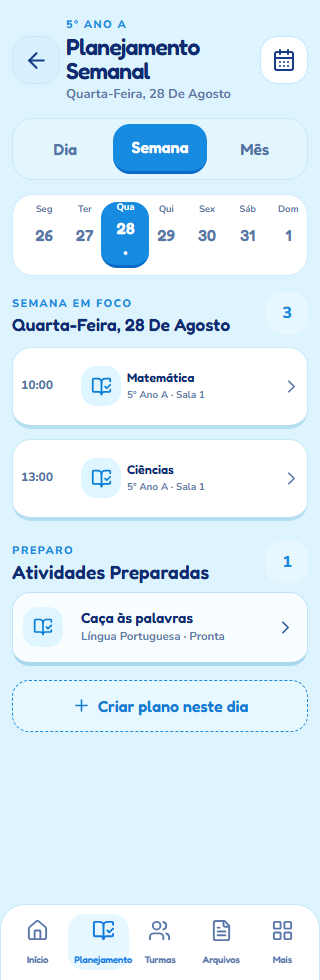
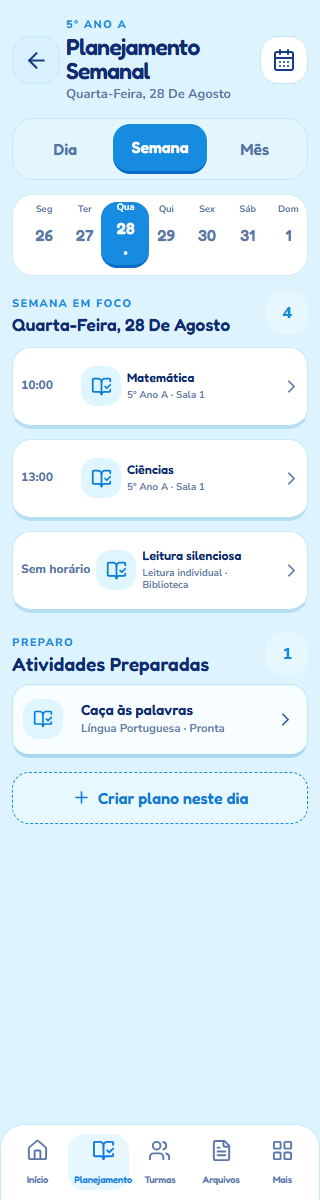
fix: isolate weekly planning hardening

diff --git a/src/v2/screens/PlanningCalendarV2.tsx b/src/v2/screens/PlanningCalendarV2.tsx
@@ -46,16 +46,19 @@ export function PlanningCalendarV2({ className = 'Sua turma', mode, dateKey, pla
   React.useEffect(() => setMonth(new Date(selected.getFullYear(), selected.getMonth(), 1)), [dateKey]);
   const week = React.useMemo(() => { const monday = new Date(selected); monday.setDate(selected.getDate() - ((selected.getDay() + 6) % 7)); return Array.from({ length: 7 }, (_, index) => { const date = new Date(monday); date.setDate(monday.getDate() + index); return keyOf(date); }); }, [dateKey]);
   const monthDays = React.useMemo(() => { const first = new Date(month.getFullYear(), month.getMonth(), 1).getDay(); const count = new Date(month.getFullYear(), month.getMonth() + 1, 0).getDate(); return [...Array(first).fill(''), ...Array.from({ length: count }, (_, index) => keyOf(new Date(month.getFullYear(), month.getMonth(), index + 1)))]; }, [month]);
-  const dayPlans = buildPlanningCalendarRows(plans.filter((plan) => plan.dataKey === dateKey && !plan.arquivadoEm));
+  const activePlans = plans.filter((plan) => plan.dataKey === dateKey && !plan.arquivadoEm);
+  const dayPlans = mode === 'week'
+    ? buildPlanningCalendarRows(activePlans)
+    : activePlans.flatMap((plan) => (plan.momentos || []).map((moment) => ({ plan, title: moment.titulo || plan.tituloTema || 'Plano de aula', time: moment.horario || plan.horaInicio, detail: moment.descricao || plan.objetivoGeral })));
   const dayActivities = activities.filter((activity) => activity.dataKey === dateKey && activity.status !== 'arquivada');
   const moveMonth = (amount: number) => setMonth(new Date(month.getFullYear(), month.getMonth() + amount, 1));
-  return <main className="v2-root v2-planning-calendar" aria-labelledby="planning-calendar-v2-title"><div className="v2-screen v2-planning-calendar__screen">
+  return <main className="v2-root v2-planning-calendar" data-mode={mode} aria-labelledby="planning-calendar-v2-title"><div className="v2-screen v2-planning-calendar__screen">
     <header className="v2-planning-calendar__header"><button className="v2-planning-calendar__back v2-pressable" type="button" onClick={onBack} aria-label="Voltar"><ArrowLeft size={25} /></button><div><span className="v2-eyebrow">{className}</span><h1 id="planning-calendar-v2-title">{mode === 'week' ? 'Planejamento semanal' : monthLabel(month)}</h1><p>{mode === 'week' ? labelOf(dateKey) : 'Veja o ritmo do mês e escolha um dia.'}</p></div><button className="v2-planning-calendar__calendar v2-pressable" type="button" onClick={() => onViewChange(mode === 'week' ? 'month' : 'week')} aria-label={mode === 'week' ? 'Abrir visão mensal' : 'Abrir visão semanal'}><CalendarDays size={24} /></button></header>
     {offline && <div className="v2-planning-calendar__notice" role="status">Você está offline. O planejamento local continua disponível.</div>}{error && <div className="v2-planning-calendar__notice is-error" role="alert"><span>{error}</span><button type="button" onClick={onRetry}>Tentar novamente</button></div>}{activityError && <div className="v2-planning-calendar__notice is-error" role="alert"><span>{activityError}</span><button type="button" onClick={onRetry}>Tentar novamente</button></div>}
     <div className="v2-planning-calendar__tabs" role="tablist" aria-label="Visão do planejamento"><button type="button" role="tab" aria-selected="false" onClick={() => onViewChange('day')}>Dia</button><button className={mode === 'week' ? 'is-selected' : ''} type="button" role="tab" aria-selected={mode === 'week'} onClick={() => onViewChange('week')}>Semana</button><button className={mode === 'month' ? 'is-selected' : ''} type="button" role="tab" aria-selected={mode === 'month'} onClick={() => onViewChange('month')}>Mês</button></div>
     {mode === 'week' ? <div className="v2-planning-calendar__week-strip">{week.map((key) => <button className={`v2-planning-calendar__week-day v2-pressable${key === dateKey ? ' is-selected' : ''}`} type="button" key={key} onClick={() => onDateChange(key)} aria-pressed={key === dateKey}><span>{dateOf(key).toLocaleDateString('pt-BR', { weekday: 'short' }).replace('.', '')}</span><strong>{dateOf(key).getDate()}</strong><small>{plans.some((plan) => plan.dataKey === key && !plan.arquivadoEm) || activities.some((activity) => activity.dataKey === key && activity.status !== 'arquivada') ? '•' : ''}</small></button>)}</div> : <div className="v2-planning-calendar__month"><div className="v2-planning-calendar__month-nav"><button className="v2-planning-calendar__date-arrow v2-pressable" type="button" onClick={() => moveMonth(-1)} aria-label="Mês anterior"><ChevronLeft size={22} /></button><strong>{monthLabel(month)}</strong><button className="v2-planning-calendar__date-arrow v2-pressable" type="button" onClick={() => moveMonth(1)} aria-label="Próximo mês"><ChevronRight size={22} /></button></div><div className="v2-planning-calendar__weekdays">{['Dom', 'Seg', 'Ter', 'Qua', 'Qui', 'Sex', 'Sáb'].map((day) => <span key={day}>{day}</span>)}</div><div className="v2-planning-calendar__grid">{monthDays.map((key, index) => key ? <button type="button" className={`v2-planning-calendar__cell v2-pressable${key === dateKey ? ' is-selected' : ''}`} key={key} onClick={() => onDateChange(key)} aria-label={labelOf(key)} aria-pressed={key === dateKey}><strong>{dateOf(key).getDate()}</strong>{(plans.some((plan) => plan.dataKey === key && !plan.arquivadoEm) || activities.some((activity) => activity.dataKey === key && activity.status !== 'arquivada')) && <i />}</button> : <span key={`blank-${index}`} />)}</div></div>}
     <div className="v2-planning-calendar__day-heading"><div><span className="v2-eyebrow">{mode === 'week' ? 'SEMANA EM FOCO' : 'DIA SELECIONADO'}</span><h2>{labelOf(dateKey)}</h2></div><span className="v2-planning-calendar__count">{dayPlans.length + dayActivities.length}</span></div>
-    {loading ? <div className="v2-planning-calendar__state" role="status">Carregando planejamento...</div> : dayPlans.length ? <section className="v2-planning-calendar__plans" aria-label="Planos do dia">{dayPlans.map((item) => <button className="v2-planning-calendar__plan v2-pressable" type="button" key={`${item.plan.id}-${item.title}`} onClick={() => onOpenPlan(item.plan)}><time>{item.time || 'Sem horário'}</time><span className="v2-planning-calendar__plan-icon"><BookOpenCheck size={21} /></span><span><strong>{item.title}</strong><small>{item.detail || item.plan.tituloTema || 'Plano de aula'}</small></span><ChevronRight size={21} /></button>)}</section> : <div className="v2-planning-calendar__state"><CalendarDays size={32} /><strong>Dia livre para planejar</strong><p>Escolha este momento para preparar uma aula com calma.</p></div>}
+    {loading ? <div className="v2-planning-calendar__state" role="status">Carregando planejamento...</div> : dayPlans.length ? <section className="v2-planning-calendar__plans" aria-label="Planos do dia">{dayPlans.map((item) => <button className="v2-planning-calendar__plan v2-pressable" type="button" key={`${item.plan.id}-${item.title}`} onClick={() => onOpenPlan(item.plan)}><time>{mode === 'week' ? (item.time || 'Sem horário') : (item.time || '—')}</time><span className="v2-planning-calendar__plan-icon"><BookOpenCheck size={21} /></span><span><strong>{item.title}</strong><small>{item.detail || item.plan.tituloTema || 'Plano de aula'}</small></span><ChevronRight size={21} /></button>)}</section> : <div className="v2-planning-calendar__state"><CalendarDays size={32} /><strong>Dia livre para planejar</strong><p>Escolha este momento para preparar uma aula com calma.</p></div>}
     {dayActivities.length > 0 && <section className="v2-planning-calendar__activities" aria-labelledby="planning-calendar-activities-title"><div className="v2-planning-calendar__activities-heading"><div><span className="v2-eyebrow">PREPARO</span><h2 id="planning-calendar-activities-title">Atividades preparadas</h2></div><span className="v2-planning-calendar__count">{dayActivities.length}</span></div>{dayActivities.map((activity) => <button className="v2-planning-calendar__activity v2-pressable" type="button" key={activity.id} onClick={() => onOpenActivity(activity)}><span className="v2-planning-calendar__plan-icon"><BookOpenCheck size={20} /></span><span><strong>{activity.titulo}</strong><small>{activity.disciplina || 'Atividade pedagógica'} · {activity.status === 'pronta' ? 'Pronta' : 'Rascunho'}</small></span><ChevronRight size={21} /></button>)}</section>}
     <button className="v2-planning-calendar__add v2-pressable" type="button" onClick={onCreatePlan}><Plus size={19} /> Criar plano neste dia</button>
     <nav className="v2-planning-calendar__bottom-nav" aria-label="Navegação principal">{navItems.map(({ id, label, icon: Icon }) => <button key={id} type="button" className={`v2-planning-calendar__nav-item v2-pressable${id === 'planejamento' ? ' is-selected' : ''}`} aria-current={id === 'planejamento' ? 'page' : undefined} onClick={() => onTabChange(id)}><Icon size={23} /><span>{label}</span></button>)}</nav>

diff --git a/src/v2/preview/V2Preview.tsx b/src/v2/preview/V2Preview.tsx
@@ -109,6 +109,10 @@ const planningPreviewPlans: LessonPlan[] = [
   { id: 'plan-science', turmaId: 'preview', dataKey: '2024-08-28', tituloTema: 'Experimento do ciclo da água', horaInicio: '13:00', horaFim: '13:50', status: 'rascunho', objetivoGeral: 'Observar mudanças de estado.', objetivosEspecificos: [], bncc: { habilidades: [] }, momentos: [{ id: 'moment-science', titulo: 'Ciências', horario: '13:00', duracaoMin: 50, descricao: '5º Ano A · Sala 1', tipo: 'aula' }], recursos: '', avaliacao: '', inclusao: '', observacoes: '', posAula: { comoFoi: null, observacoesPosAula: '' }, criadoEm: '2024-08-01T10:00:00.000Z', atualizadoEm: '2024-08-01T10:00:00.000Z' },
 ];
 planningPreviewPlans.push({ ...planningPreviewPlans[1], id: 'plan-archived', tituloTema: 'Plano arquivado', arquivadoEm: '2024-08-27T10:00:00.000Z' });
+const planningWeekPreviewPlans: LessonPlan[] = [
+  ...planningPreviewPlans,
+  { ...planningPreviewPlans[0], id: 'plan-untimed-week', tituloTema: 'Leitura silenciosa', horaInicio: '', horaFim: '', momentos: [{ ...planningPreviewPlans[0].momentos[0], id: 'moment-untimed-week', titulo: 'Leitura silenciosa', horario: '', descricao: 'Leitura individual · Biblioteca' }] },
+];
 const planningDayPreviewPlans: LessonPlan[] = [
   ...planningPreviewPlans,
   { ...planningPreviewPlans[0], id: 'plan-untimed', tituloTema: 'Leitura silenciosa', horaInicio: '', horaFim: '', momentos: [{ ...planningPreviewPlans[0].momentos[0], id: 'moment-untimed', titulo: 'Leitura silenciosa', horario: '', descricao: 'Leitura individual · Biblioteca' }] },
@@ -210,7 +214,7 @@ export function V2Preview() {
           ) : activeScreen === 'planning-day' ? (
             <PlanningDayV2 plans={planningDayPreviewPlans} activities={[{ ...activityPreview, titulo: 'Caça às palavras', disciplina: 'Língua Portuguesa', instrucoes: 'Em duplas, encontrem no texto as palavras combinadas.', status: 'pronta' }]} dateKey="2024-08-28" className="5º Ano A" onBack={() => setActiveScreen('home')} onViewChange={(view) => setActiveScreen(view === 'week' ? 'planning-week' : 'planning-month')} onOpenPlan={() => setActiveScreen('plan-editor')} onOpenActivity={() => setActiveScreen('activity')} onCreatePlan={() => setActiveScreen('plan-editor')} />
           ) : activeScreen === 'planning-week' || activeScreen === 'planning-month' ? (
-            <PlanningCalendarV2 plans={planningPreviewPlans} activities={[{ ...activityPreview, titulo: 'Caça às palavras', disciplina: 'Língua Portuguesa', instrucoes: 'Em duplas, encontrem no texto as palavras combinadas.', status: 'pronta' }]} dateKey="2024-08-28" mode={activeScreen === 'planning-week' ? 'week' : 'month'} className="5º Ano A" onBack={() => setActiveScreen('home')} onViewChange={(view) => setActiveScreen(view === 'day' ? 'planning-day' : view === 'week' ? 'planning-week' : 'planning-month')} onDateChange={() => undefined} onOpenPlan={() => setActiveScreen('plan-editor')} onOpenActivity={() => setActiveScreen('activity')} onCreatePlan={() => setActiveScreen('plan-editor')} />
+            <PlanningCalendarV2 plans={activeScreen === 'planning-week' ? planningWeekPreviewPlans : planningPreviewPlans} activities={[{ ...activityPreview, titulo: 'Caça às palavras', disciplina: 'Língua Portuguesa', instrucoes: 'Em duplas, encontrem no texto as palavras combinadas.', status: 'pronta' }]} dateKey="2024-08-28" mode={activeScreen === 'planning-week' ? 'week' : 'month'} className="5º Ano A" onBack={() => setActiveScreen('home')} onViewChange={(view) => setActiveScreen(view === 'day' ? 'planning-day' : view === 'week' ? 'planning-week' : 'planning-month')} onDateChange={() => undefined} onOpenPlan={() => setActiveScreen('plan-editor')} onOpenActivity={() => setActiveScreen('activity')} onCreatePlan={() => setActiveScreen('plan-editor')} />
           ) : activeScreen === 'class-manager' ? (
             <ClassManagerV2 classes={classesPreview} activeClass={classesPreview[0]} onBack={() => setActiveScreen('more')} onAtualizar={() => undefined} onAtivar={async () => undefined} goTo={() => undefined} />
           ) : activeScreen === 'student-profile' ? (

diff --git a/e2e/v2-planning-week-flow.pw.ts b/e2e/v2-planning-week-flow.pw.ts
@@ -10,10 +10,23 @@ test('Planejamento semanal V2 mantém preparo, planos e estados úteis', async (
   await expect(device.getByRole('heading', { name: 'Planejamento semanal' })).toBeVisible();
   await expect(device.getByRole('button', { name: /Matemática/ })).toBeVisible();
   await expect(device.getByRole('button', { name: /Ciências/ })).toBeVisible();
+  await expect(device.getByText('Leitura silenciosa', { exact: true })).toBeVisible();
+  await expect(device.getByText('Sem horário', { exact: true })).toBeVisible();
   await expect(device.getByRole('heading', { name: 'Atividades preparadas', exact: true })).toBeVisible();
   await expect(device.getByRole('button', { name: /Caça às palavras/ })).toBeVisible();
   await expect(device.getByRole('button', { name: 'Criar plano neste dia' })).toBeVisible();
   await expect(device.getByRole('button', { name: /Plano arquivado/ })).toHaveCount(0);
+});
+
+test('Planejamento mensal V2 preserva a composição base fora do hardening semanal', async ({ page }) => {
+  await page.setViewportSize({ width: 412, height: 980 });
+  await page.goto('/?v2-preview=planning-month&width=412');
+  const device = page.locator('.v2-preview-device');
+
+  await expect(device.locator('.v2-planning-calendar[data-mode="month"] .v2-planning-calendar__month')).toBeVisible();
+  await expect(device.locator('.v2-planning-calendar[data-mode="month"] .v2-planning-calendar__plan time')).toHaveText(['10:00', '13:00']);
+  await expect(device.getByText('Sem horário', { exact: true })).toHaveCount(0);
+  await expect(device.getByText('Leitura silenciosa', { exact: true })).toHaveCount(0);
 });
 
 test('Planejamento semanal V2 preserva copy e layout em texto ampliado', async ({ page }) => {

diff --git a/src/v2/screens/planning-calendar-v2.css b/src/v2/screens/planning-calendar-v2.css
@@ -23,9 +23,9 @@
 @media (prefers-reduced-motion: reduce) { .v2-planning-calendar *, .v2-planning-calendar *::before, .v2-planning-calendar *::after { transition: none !important; animation: none !important; } }
 
 /* Weekly hardening: keep untimed labels readable at the narrowest Android width. */
-.v2-planning-calendar__plan time { min-width: 0; white-space: normal; line-height: 1.15; }
+.v2-planning-calendar[data-mode="week"] .v2-planning-calendar__plan time { min-width: 0; white-space: normal; line-height: 1.15; }
 @media (max-width: 359px) {
-  .v2-planning-calendar__plan { grid-template-columns: minmax(54px, auto) 40px minmax(0, 1fr) 18px; }
-  .v2-planning-calendar__bottom-nav { padding-inline: 6px; }
-  .v2-planning-calendar__nav-item { min-width: 0; font-size: .6rem; letter-spacing: -.015em; }
+  .v2-planning-calendar[data-mode="week"] .v2-planning-calendar__plan { grid-template-columns: minmax(54px, auto) 40px minmax(0, 1fr) 18px; }
+  .v2-planning-calendar[data-mode="week"] .v2-planning-calendar__bottom-nav { padding-inline: 6px; }
+  .v2-planning-calendar[data-mode="week"] .v2-planning-calendar__nav-item { min-width: 0; font-size: .6rem; letter-spacing: -.015em; }
 }

diff --git a/docs/ANDROID_1_0_EXECUTION_BOARD.md b/docs/ANDROID_1_0_EXECUTION_BOARD.md
@@ -196,12 +196,12 @@ Status: `TODO`
 Atualizar a cada rodada significativa:
 
 - Data/hora: 14/09/2026 — checkpoint do hardening semanal V2
-- Base: `origin/integration/android-1.0` em `c54bf01`; branch `codex/delivery-planning-week-v2`
+- Base: `origin/integration/android-1.0` em `80b5466`; branch `codex/delivery-planning-week-v2`
 - Tela/fluxo: a visão semanal mantém planos e atividades reais do dia selecionado, exclui arquivados, preserva planos sem momentos, ordena horários e mostra `Sem horário` de forma explícita; o card semanal estreito mantém a label inteira em 320px.
 - Escopo não tocado: visão mensal, outras telas, billing, auth e migração de storage.
 - Screenshot/evidência: `docs/qa/clean-room/planning-week-v2-hardening-412.png`, `docs/qa/clean-room/planning-week-v2-hardening-390.png`, `docs/qa/clean-room/planning-week-v2-hardening-320.png`; baseline `docs/qa/clean-room/planning-week-v2-412.png`.
-- Testes executados: `pnpm test` (53/53), jornada semanal Playwright (9/9), `check:fast` e `git diff --check` passaram; matriz semanal cobre 320/360/390/412/432/480/600px e texto 130%.
-- Commit: `1a164c6` (`Harden weekly planning V2`)
+- Testes executados: `pnpm test` (53/53), jornada semanal Playwright (11/11, incluindo fixture sem horário, regressão mensal e matriz 320/360/390/412/432/480/600px), `check:fast`, `git diff --check` e build passaram.
+- Commit: `91b8e41` (`fix: isolate weekly planning hardening`)
 - PR: [#20](https://github.com/SayvaBR/assistente-ped/pull/20) aberto para `integration/android-1.0`; sem merge.
 - Blocker externo: o POCO X7 Pro foi encontrado via SDK ADB direto (`FMV455CMZXY5HYXS`, `2412DPC0AG`, `1220x2712`, density `520`), mas a instalação do APK deste branch falhou com `INSTALL_FAILED_UPDATE_INCOMPATIBLE` porque o pacote `br.com.assistentepedagogico.app.qa` já instalado usa outra assinatura. Não foi feito uninstall, `pm clear` ou exclusão de dados. As capturas físicas existentes são do pacote instalado `0.3.0-qa`, não deste HEAD; validação física do artefato atual permanece bloqueada até keystore compatível ou autorização explícita para remover o pacote.
 - QA físico não destrutivo: abertura, navegação, rolagem, teclado, descarte seguro e reabertura passaram no pacote instalado. Pendências encontradas no instalado (a reproduzir no APK do branch): landscape com composição estreita/sobra de espaço, cobertura de conteúdo pela barra inferior em Perfil, atalho superior de perfil com navegação inesperada e ação de câmera terminando no DocumentsUI. Escala de texto conclusiva ficou bloqueada porque o app reiniciou durante a captura. Relatório do agente: `C:\Users\Usuário\Documents\Codex\2026-09-13\luna-alto-poco-qa\outputs\auditoria-fisica-poco-x7-pro.md`. Desempenho preliminar do instalado: 427 frames, 3 janky (0,70%), PSS total aproximado de 260 MB.
